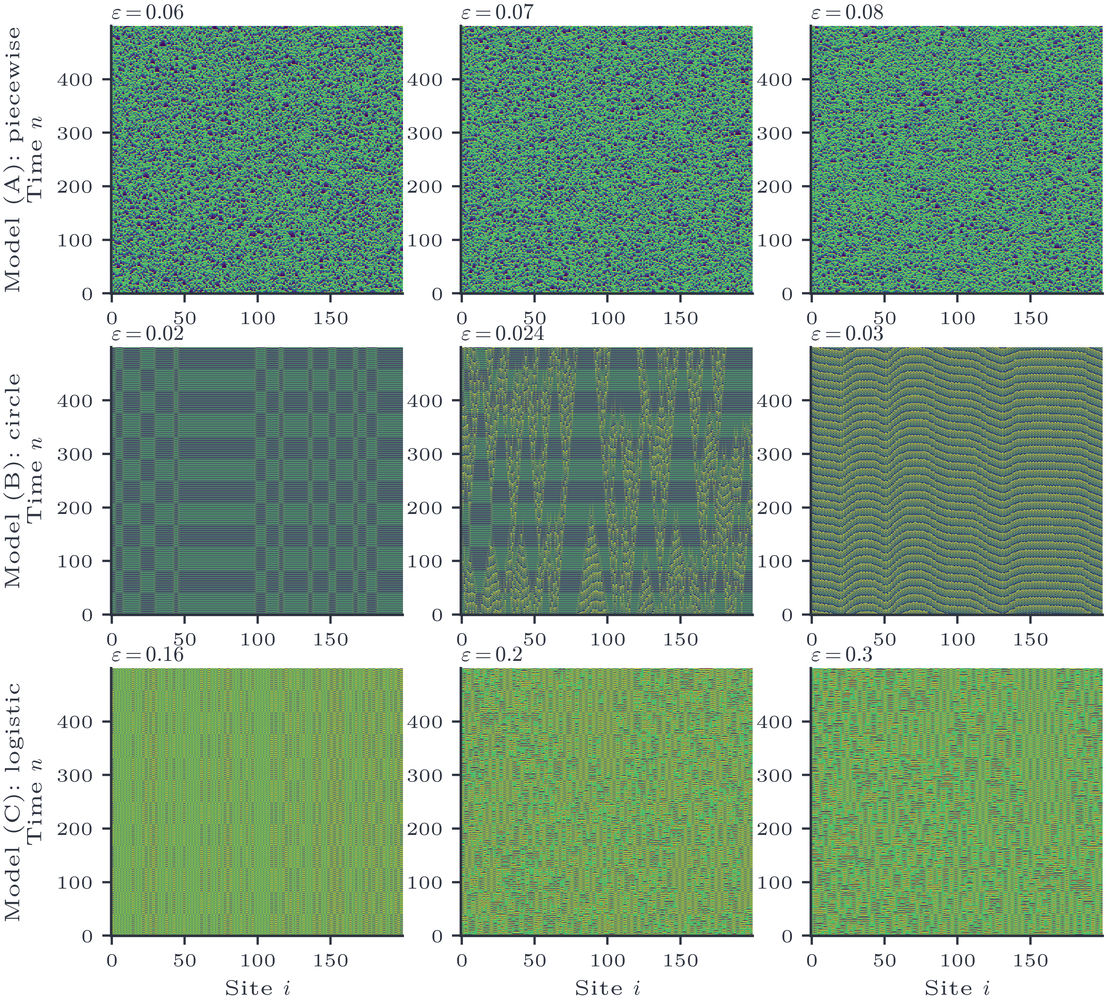
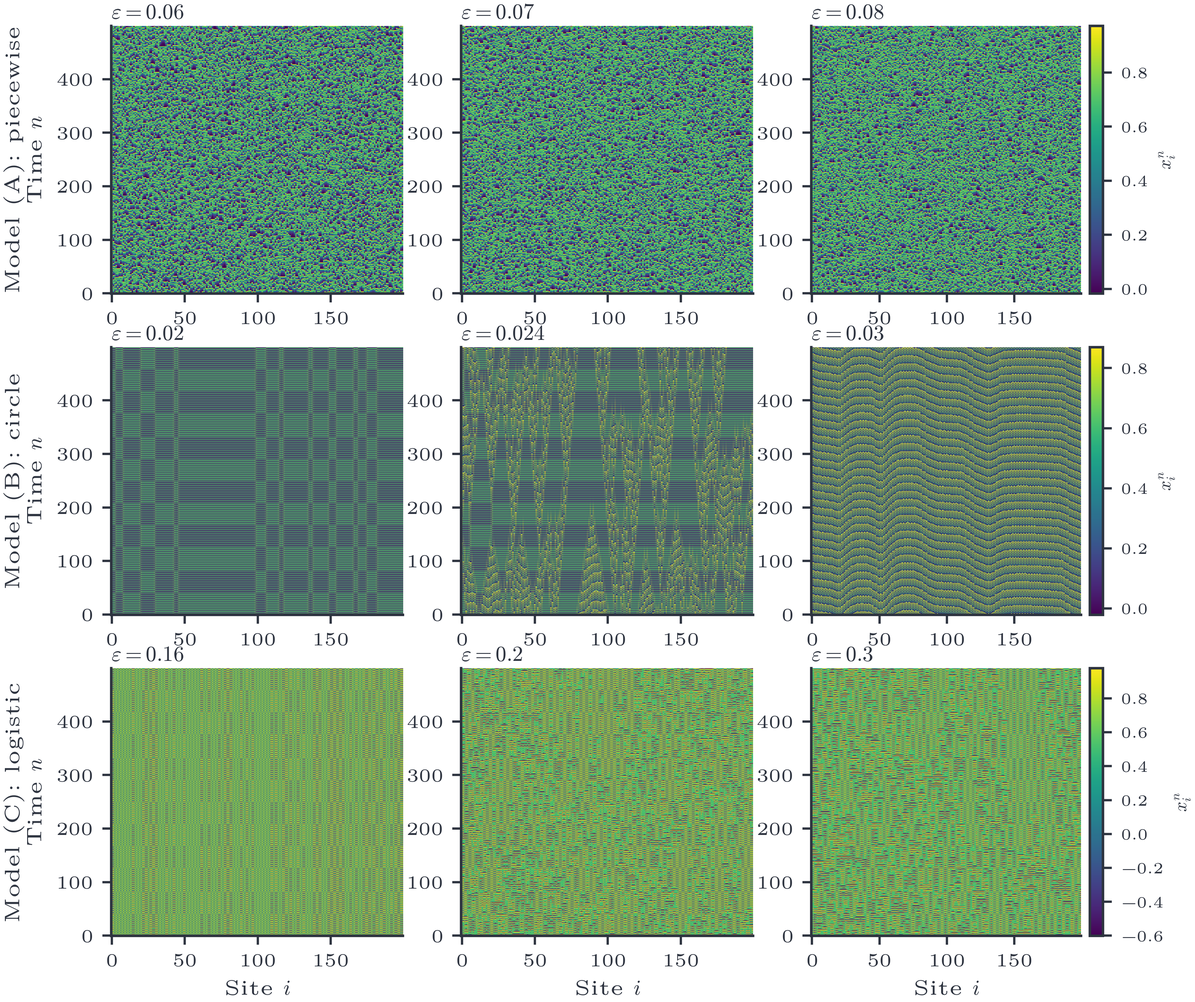
style(sec08): apply figure grammar — spacetime colorbars, grey reference
spatiotemporal.py: add one labelled colorbar per model row to the 3x3 spacetime
grid (x_i^n) — previously no colour scale at all. comoving_figure.py: lambda=0
line -> grey reference_line. Presentation only; npz unchanged.

diff --git a/src/dynachaos/cml/spatiotemporal.py b/src/dynachaos/cml/spatiotemporal.py
@@ -127,6 +127,7 @@ def plot(data):
 
     from dynachaos.utils.style import (
         CMAP_SPACETIME,
+        add_field_colorbar,
         apply_axes_polish,
         figure_spec,
         setup,
@@ -152,12 +153,13 @@ def plot(data):
         if vmax - vmin < 1e-12:
             vmin -= 0.5
             vmax += 0.5
+        row_mappable = None
         for col, eps in enumerate(eps_vals):
             ax = axes[row, col]
             key = f"{model}_eps_{eps}"
             if key in data:
                 st = data[key]
-                ax.imshow(
+                row_mappable = ax.imshow(
                     st,
                     aspect="auto",
                     cmap=CMAP_SPACETIME,
@@ -176,6 +178,8 @@ def plot(data):
             else:
                 ax.set_xlabel("")
             apply_axes_polish(ax, kind="grid", title_loc="left", grid=False)
+        if row_mappable is not None:
+            add_field_colorbar(fig, row_mappable, axes[row, -1], label=r"$x_i^n$")
 
     fig.savefig(STI_PNG, dpi=600, bbox_inches="tight")
     plt.close(fig)

diff --git a/src/dynachaos/cml/comoving_figure.py b/src/dynachaos/cml/comoving_figure.py
@@ -86,10 +86,10 @@ def plot(data):
     import matplotlib.pyplot as plt
 
     from dynachaos.utils.style import (
-        COLORS,
         apply_axes_polish,
         figure_spec,
         finalize_legend,
+        reference_line,
         series_style,
         setup,
     )
@@ -136,7 +136,7 @@ def plot(data):
                 )
                 ax.axvline(v_cross, color=sty["color"], lw=0.6, ls="--", alpha=0.5)
 
-    ax.axhline(0, color=COLORS["grey"], lw=0.5, ls="-", alpha=0.5)
+    reference_line(ax, 0, axis="y", label=None)
     ax.set_xlabel(r"Velocity $v$ (sites/iteration)")
     ax.set_ylabel(r"$\lambda(v)$")
     if np.isfinite(y_min) and np.isfinite(y_max):
